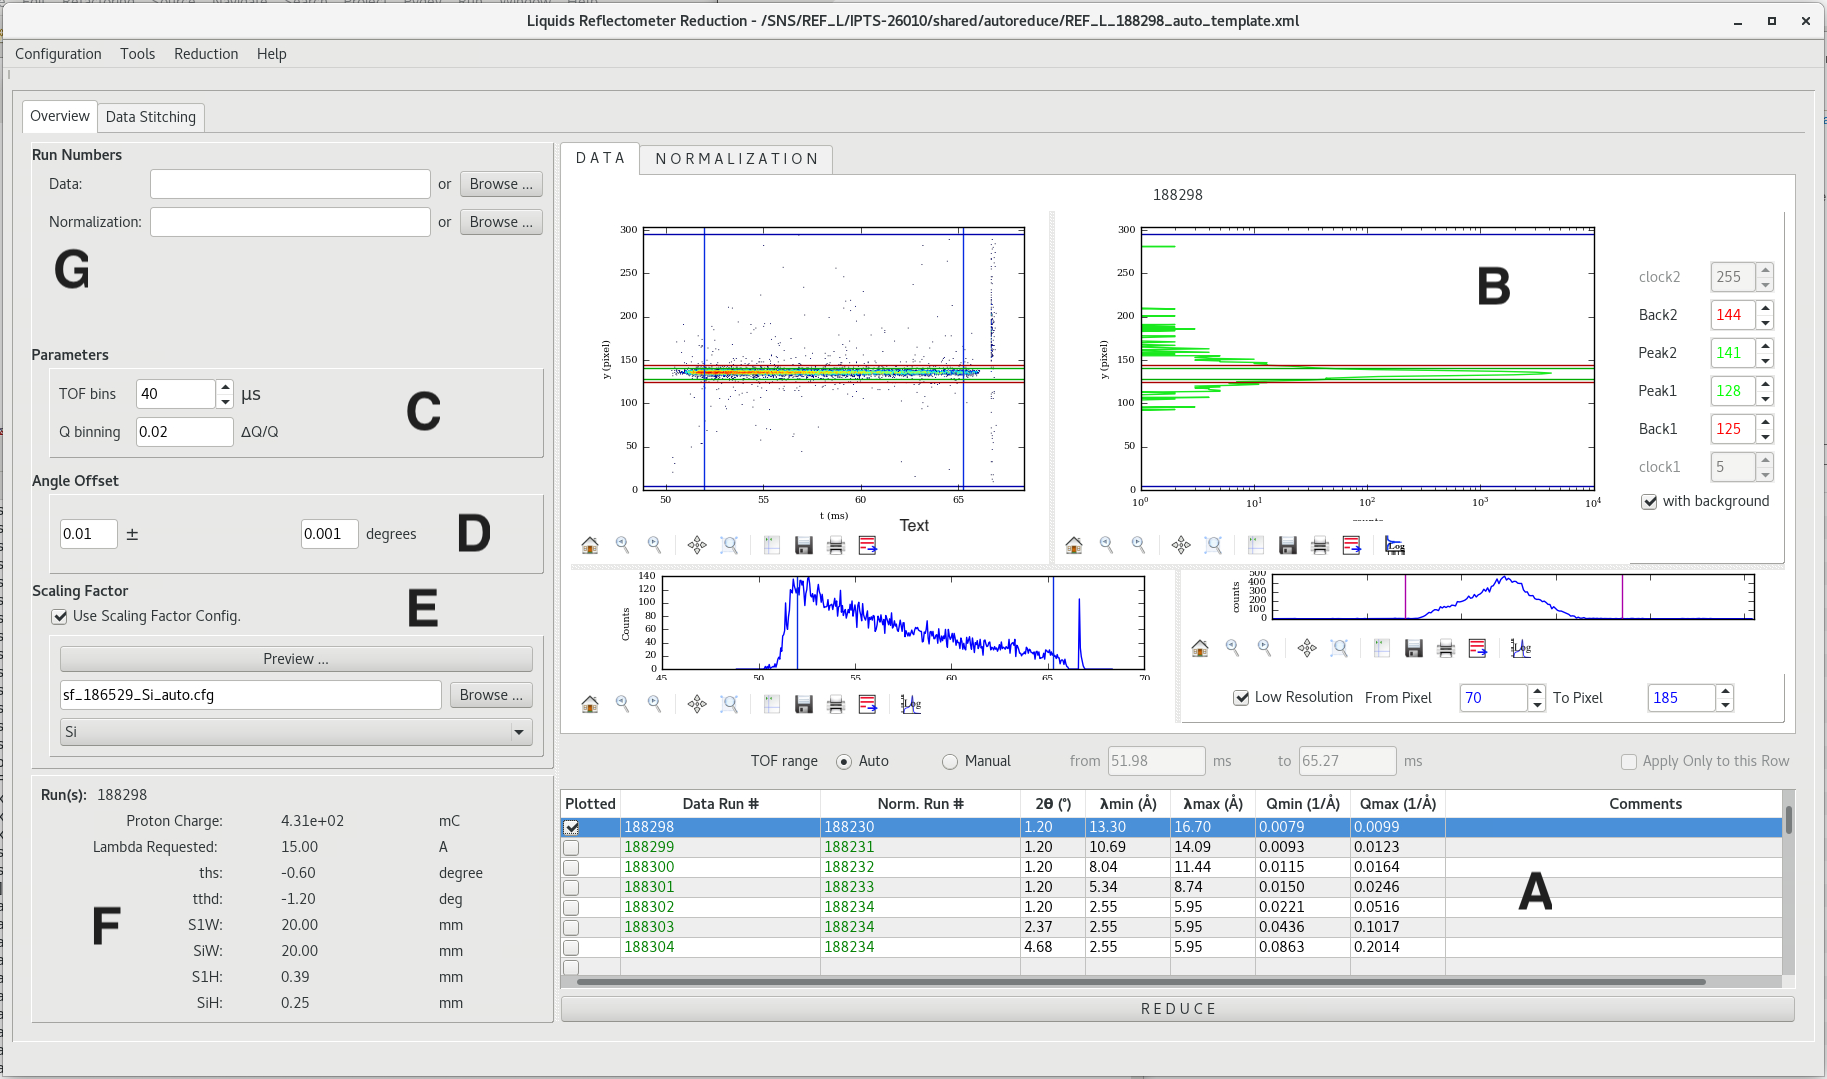
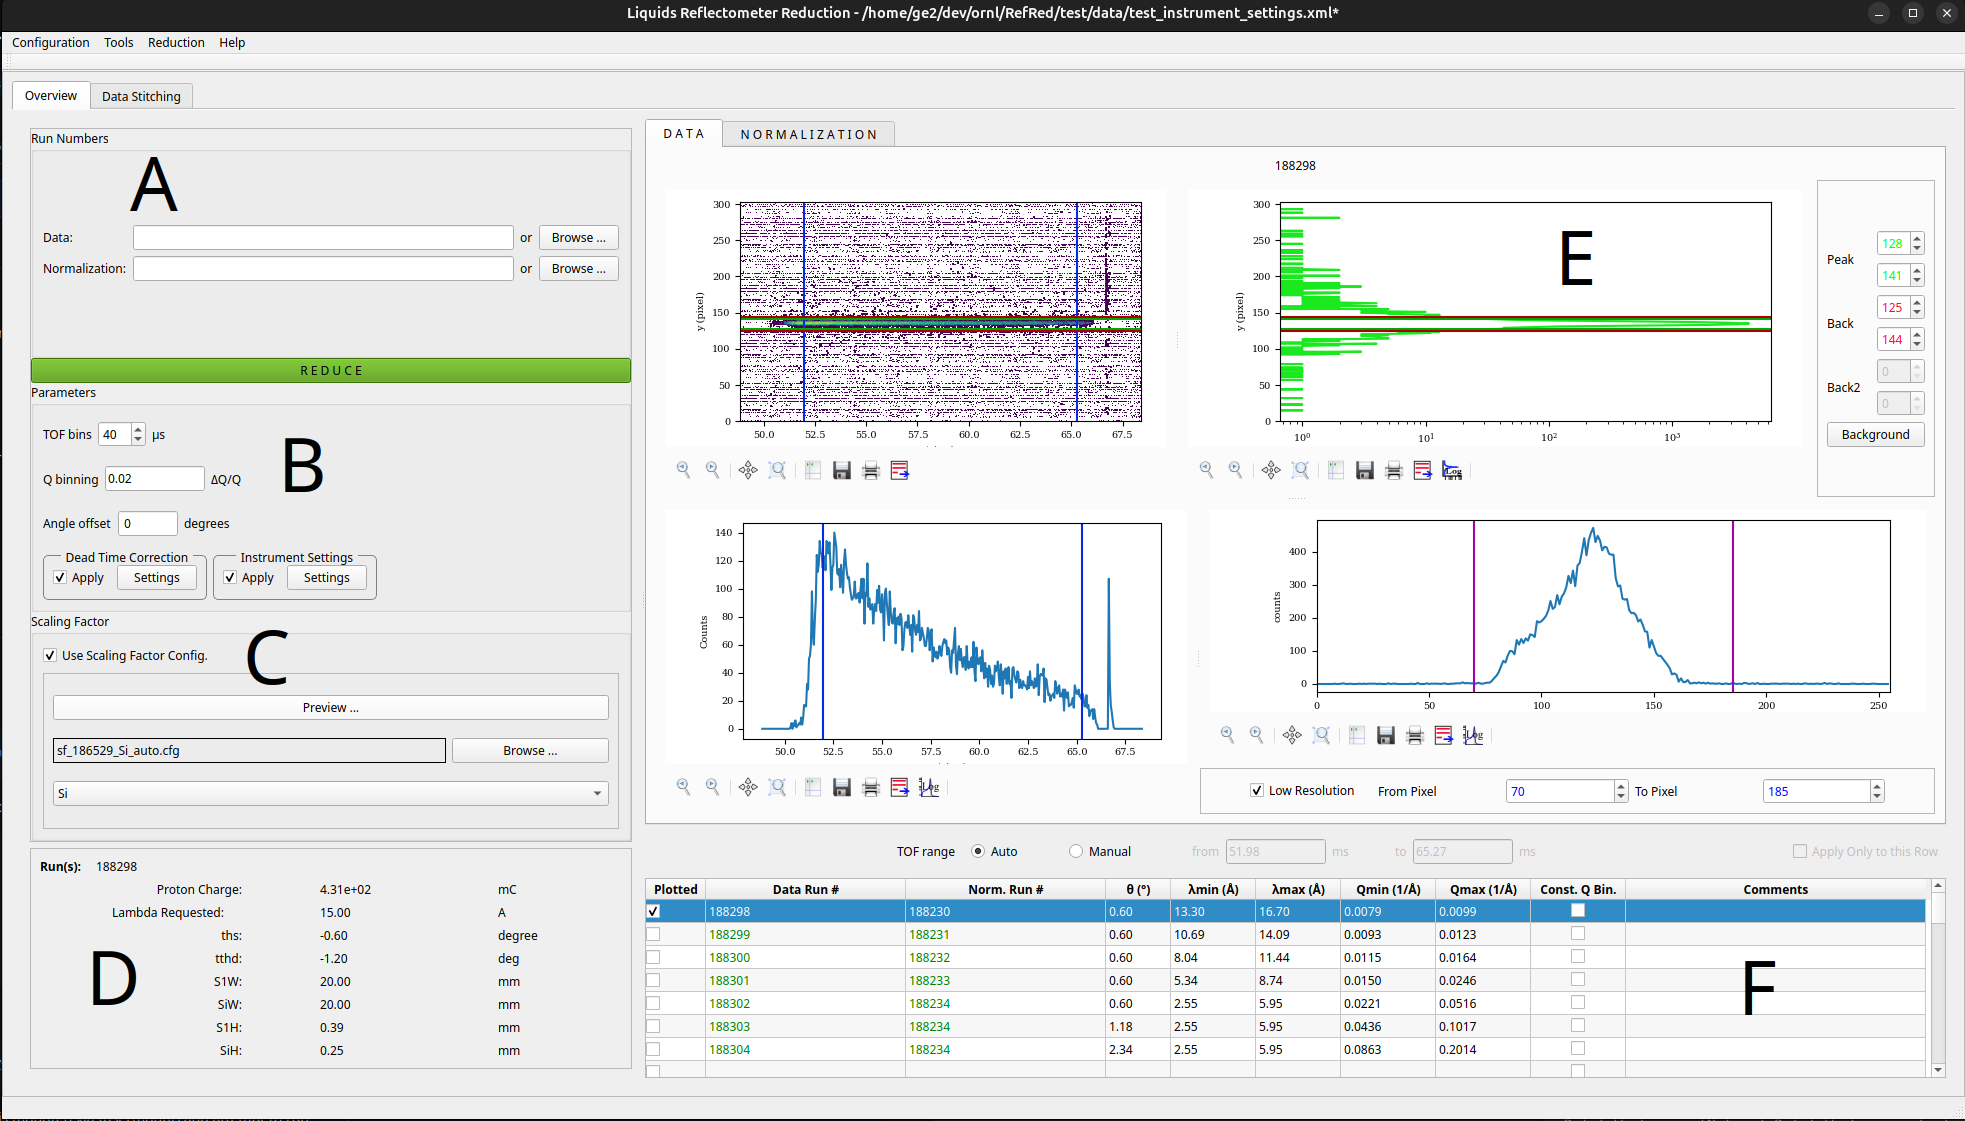
update user docs

diff --git a/docs/user/load-template.rst b/docs/user/load-template.rst
@@ -19,14 +19,20 @@ Select `/SNS/REF_L/IPTS-26010/shared/autoreduce/REF_L_188298_auto_template.xml`.
 to proceed. There are several widgets on the UI. These are labeled with
 on the image below as follows:
 
-  A- The loaded files are listed in the table. The run numbers in green
-  are editable. The user can click these numbers and change them to use
-  the current template as a starting point.
+  A: Item A allows the user to enter or browse for data and normalization files.
 
-  The check boxes on the left of the table allow the user to populate
-  the main area of the UI (item B).
+  B: Item B allows the user change a number of reduction parameters, including:
 
-  B- Each reflected run needs a normalization run (R is the ratio of the
+    - the TOF binning and output Q binning
+    - the calibration angle offset, which is given by the instrument scientist
+    - the dead time correction settings
+    - the instrument geometry parameters
+
+  C: Item C allows the user to pick a scaling factor file.
+
+  D: Panel D give basic information about the reflected run.
+
+  E: Each reflected run needs a normalization run (R is the ratio of the
   reflected beam and the direct beam). For this reason the main area of
   the UI is presented as two tabs, one for the reflected data (called Data),
   and one for the normalization (called Normalization). They both
@@ -45,14 +51,12 @@ on the image below as follows:
   Double-clicking on the y vs counts plot will pop up a larger plot that
   makes it easier to visualize and select the peak.
 
-  C- Item C allows the user change the TOF binning and the output Q binning.
+  F: The loaded files are listed in the table. The run numbers in green
+  are editable. The user can click these numbers and change them to use
+  the current template as a starting point.
 
-  D- Item D allows the user to change the calibration angle offset, which
-  is given by the instrument scientist.
-
-  E- Item E allows the user to pick a scaling factor file.
-
-  F- Panel F give basic information about the reflected run.
+  The check boxes on the left of the table allow the user to populate
+  the main area of the UI (item E).
 
 .. image:: template-inspection.png
 
